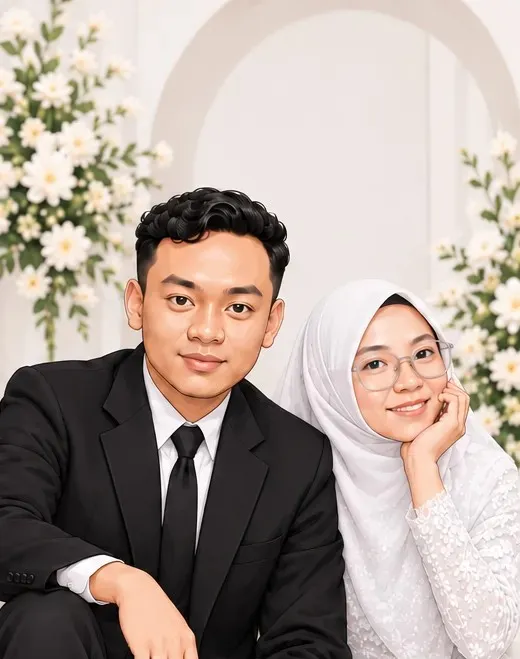
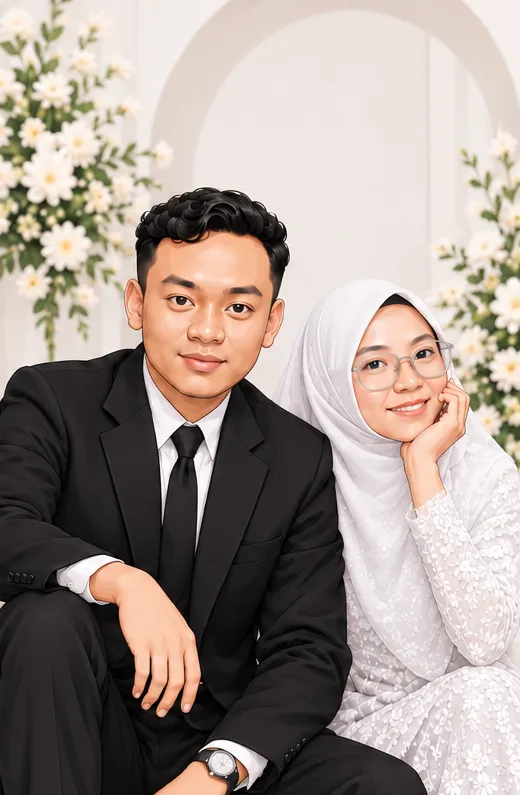
update

diff --git a/src/pages/undangan/heru-winda.md b/src/pages/undangan/heru-winda.md
@@ -3,7 +3,7 @@ layout: '../demo/adat.astro'
 slug: 'undangan/heru-winda'
 title: 'Heru & Winda'
 name: 'Heru & Winda'
-desc: 'Tema Adat Jawa'
+desc: 'Heru & Winda'
 price: 'Rp125.000'
 unprice: 'Rp200.000'
 number: 10007
@@ -126,9 +126,9 @@ timeth: "09:00 - selesai"
 addressfs: "PMK Purworejo, Subhan etan, Desa Tambak Jaya, Kec Way Tenong, Lampung Barat."
 addresssc: "PMK Purworejo, Subhan etan, Desa Tambak Jaya, Kec Way Tenong, Lampung Barat."
 addressth: "PMK Purworejo, Subhan etan, Desa Tambak Jaya, Kec Way Tenong, Lampung Barat."
-locationfs: "Rumah Mempelai Pria"
-locationsc: "Rumah Mempelai Pria"
-locationth: "Rumah Mempelai Pria"
+locationfs: "Kediaman Mempelai Pria"
+locationsc: "Kediaman Mempelai Pria"
+locationth: "Kediaman Mempelai Pria"
 mapsfs: https://maps.app.goo.gl/GxcHCARxh7C8h9ak8
 mapssc: https://maps.app.goo.gl/GxcHCARxh7C8h9ak8
 mapsth: https://maps.app.goo.gl/GxcHCARxh7C8h9ak8

diff --git a/src/pages/undangan/firli-alvio.md b/src/pages/undangan/firli-alvio.md
@@ -9,7 +9,7 @@ price: 'Rp85.000'
 unprice: 'Rp120.000'
 number: 35
 img:
-  url: '/assets/demo-35.webp'
+  url: '/assets/firli1.webp'
   alt: 'Firli & Alvio Wedding'
 
 # Colors
@@ -93,12 +93,12 @@ instagramfemale: "firlianasani"
 # Name Bank
 logoml: /assets/bsi.png
 bankml: "BSI"
-namebankml: "Alvio Afrizal"
+namebankml: "Firliana Sani"
 numberbankml: "7153590146"
 
 logofml: /assets/bsi.png
 bankfml: "BSI"
-namebankfml: "Alvio Afrizal"
+namebankfml: "Firliana Sani"
 numberbankfml: "7153590146"
 
 # Waktu & Tempat Acara
@@ -112,8 +112,8 @@ timefs: 09:00 WIB
 timesc: 12:00 WIB
 timeth: 12:00 WIB
 
-locationfs: 41 A Batangharjo
-locationsc: 41 A Batangharjo
+locationfs: Kediaman Mempelai Wanita
+locationsc: Kediaman Mempelai Wanita
 
 addressfs: 41 A Batangharjo, Kecamatan Batanghari, Kabupaten Lampung Timur
 addresssc: 41 A Batangharjo, Kecamatan Batanghari, Kabupaten Lampung Timur
